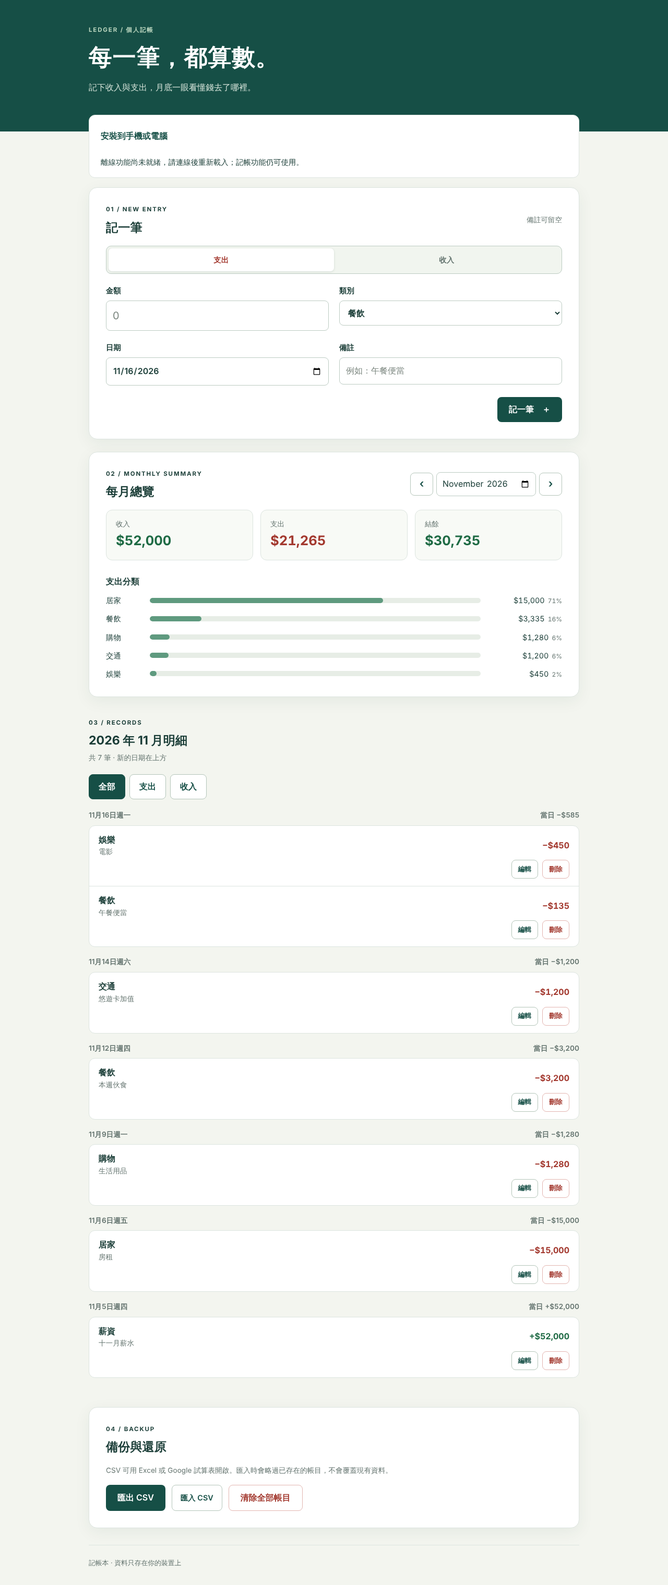
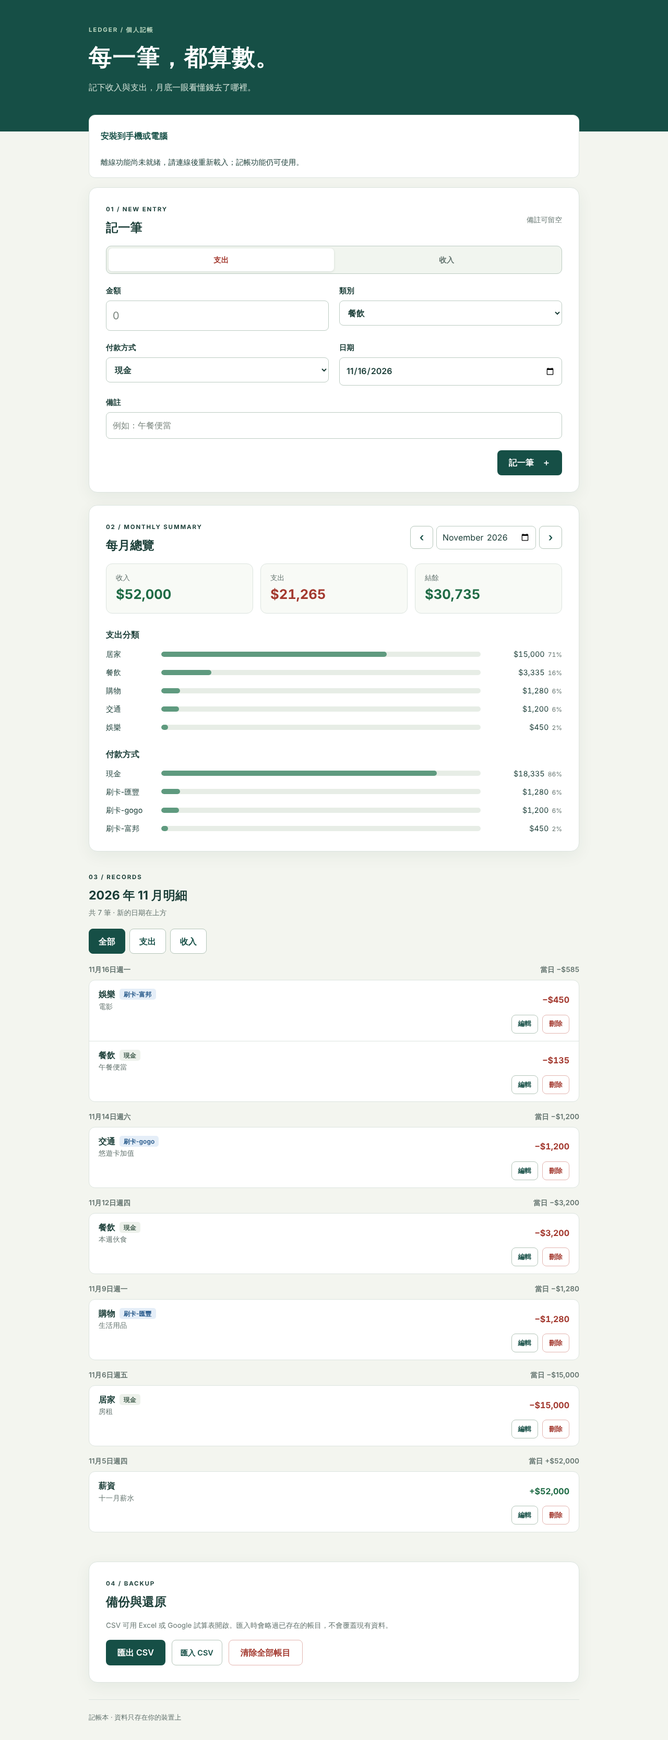
新增支出付款方式欄位 (#12)
- 支出可選現金、刷卡-匯豐、刷卡-gogo、刷卡-一銀、刷卡-富邦，預設現金
- 收入不顯示也不儲存付款方式
- 每月總覽新增付款方式統計，明細顯示付款方式標籤
- CSV 匯出匯入加入付款方式欄，舊格式 CSV 與舊帳目顯示「未指定」
- sw.js 快取版本改為 v2，測試改為不依賴目前版本號

Claude-Session: https://claude.ai/code/session_011d82iz1FptCJ1qotcmAoj3

diff --git a/style.css b/style.css
@@ -5,7 +5,7 @@
 .panel,.summary,.data-tools{padding:32px;background:#fff;border:1px solid var(--line);border-radius:16px;box-shadow:0 8px 30px #173b3610}.summary,.data-tools{margin-top:24px}
 .section-heading{display:flex;align-items:center;justify-content:space-between;gap:16px;margin-bottom:20px}h2{font-size:1.45rem;line-height:1.3;margin:0}h3{font-size:1rem;margin:0 0 12px}.note{color:var(--muted);font-size:.85rem}
 .type-toggle{display:grid;grid-template-columns:1fr 1fr;gap:0;border:1px solid #bccbc2;border-radius:10px;padding:4px;margin:0 0 20px;background:#f1f5ef}.type-toggle label{margin:0}.type-toggle input{position:absolute;opacity:0;width:1px;height:1px}.type-toggle span{display:flex;align-items:center;justify-content:center;min-height:44px;border-radius:7px;font-weight:600;color:var(--muted);cursor:pointer}.type-toggle input:checked+span{background:#fff;color:var(--expense);box-shadow:0 1px 4px #173b3622}.type-toggle input[value=income]:checked+span{color:var(--income)}.type-toggle input:focus-visible+span{outline:3px solid #d59d42;outline-offset:2px}
-.form-grid{display:grid;grid-template-columns:1fr 1fr;gap:20px}label{display:block;font-size:.9rem;font-weight:600}input,select{display:block;width:100%;margin-top:8px;border:1px solid #bccbc2;border-radius:8px;background:#fff;padding:12px;color:var(--ink);font-size:1rem;min-height:48px}input[name=amount]{font-size:1.25rem;font-weight:700}input::placeholder{color:#7d8881;font-weight:400}:focus-visible{outline:3px solid #d59d42;outline-offset:3px}
+.form-grid{display:grid;grid-template-columns:1fr 1fr;gap:20px}.form-grid .wide{grid-column:1/-1}label{display:block;font-size:.9rem;font-weight:600}input,select{display:block;width:100%;margin-top:8px;border:1px solid #bccbc2;border-radius:8px;background:#fff;padding:12px;color:var(--ink);font-size:1rem;min-height:48px}input[name=amount]{font-size:1.25rem;font-weight:700}input::placeholder{color:#7d8881;font-weight:400}:focus-visible{outline:3px solid #d59d42;outline-offset:3px}
 .form-footer{display:flex;align-items:center;justify-content:flex-end;gap:12px;margin-top:22px}
 button,.file-button{border:0;border-radius:8px;background:var(--green);color:#fff;min-height:48px;padding:11px 22px;font-weight:600}button:hover:not(:disabled){background:#246a5d}button span{margin-left:12px}
 .secondary,.file-button{background:transparent;border:1px solid #b4c5b9;color:var(--green);font-size:.9rem;padding:9px 16px}.secondary:hover:not(:disabled),.file-button:hover{background:#e0e9df}
@@ -13,10 +13,10 @@ button,.file-button{border:0;border-radius:8px;background:var(--green);color:#ff
 .message{font-size:.9rem;margin:16px 0 0;white-space:pre-wrap;overflow-wrap:anywhere}.message:empty{display:none}.message[data-kind=error]{color:#9e2925}.message[data-kind=success]{color:#226344}
 .month-nav{display:flex;align-items:center;gap:6px}.month-nav input{margin:0;width:auto;min-width:0;padding:8px 10px;min-height:44px}.icon-button{min-width:44px;min-height:44px;padding:0;font-size:1.3rem;line-height:1}
 .stats{display:grid;grid-template-columns:repeat(3,1fr);gap:14px}.stat{padding:16px 18px;border:1px solid var(--line);border-radius:12px;background:#f8faf6;min-width:0}.stat-label{display:block;font-size:.85rem;color:var(--muted)}.stat-value{display:block;font-size:clamp(1.05rem,3.6vw,1.6rem);font-variant-numeric:tabular-nums;overflow-wrap:anywhere}.income{color:var(--income)}.expense{color:var(--expense)}
-.breakdown{margin-top:28px}.breakdown .note{margin:0}.breakdown-list{list-style:none;margin:0;padding:0;display:grid;gap:12px}.breakdown-row{display:grid;grid-template-columns:5em 1fr 10em;align-items:center;gap:12px;font-size:.9rem}.bar{height:10px;border-radius:5px;background:#e7ede6;overflow:hidden}.bar span{display:block;height:100%;margin:0;background:var(--bar);border-radius:5px}.breakdown-amount{font-variant-numeric:tabular-nums;text-align:right;white-space:nowrap}.breakdown-amount small{color:var(--muted);margin-left:6px}
+.breakdown{margin-top:28px}.breakdown .note{margin:0}.breakdown-list{list-style:none;margin:0;padding:0;display:grid;gap:12px}.breakdown-row{display:grid;grid-template-columns:6.5em 1fr 10em;align-items:center;gap:12px;font-size:.9rem}.bar{height:10px;border-radius:5px;background:#e7ede6;overflow:hidden}.bar span{display:block;height:100%;margin:0;background:var(--bar);border-radius:5px}.breakdown-amount{font-variant-numeric:tabular-nums;text-align:right;white-space:nowrap}.breakdown-amount small{color:var(--muted);margin-left:6px}
 .records{padding:40px 0 12px}.records .section-heading .note{margin:8px 0 0}.type-filters{display:flex;gap:8px;flex-wrap:wrap}.filter-button{min-width:64px;padding:10px 18px;background:#fff;color:var(--green);border:1px solid #b4c5b9}.filter-button:hover:not(:disabled){background:#e0e9df}.filter-button[aria-pressed=true],.filter-button[aria-pressed=true]:hover{background:var(--green);color:#fff;border-color:var(--green)}
-.record-list{margin:20px 0;display:grid;gap:18px}.day-group h3{display:flex;justify-content:space-between;gap:12px;font-size:.85rem;color:var(--muted);font-weight:600;margin:0 0 8px}.day-group ul{list-style:none;margin:0;padding:0;background:#fff;border:1px solid var(--line);border-radius:12px}.record{display:grid;grid-template-columns:1fr auto;gap:4px 12px;align-items:center;padding:14px 18px;border-top:1px solid var(--line)}.record:first-child{border-top:0}.record-main{min-width:0}.record-category{font-weight:600}.record-note{display:block;color:var(--muted);font-size:.85rem;overflow-wrap:anywhere}.record-amount{font-weight:700;font-variant-numeric:tabular-nums;text-align:right;white-space:nowrap}.record-actions{grid-column:1/-1;display:flex;gap:8px;justify-content:flex-end}.record-actions button{min-height:36px;padding:4px 12px;font-size:.8rem}
+.record-list{margin:20px 0;display:grid;gap:18px}.day-group h3{display:flex;justify-content:space-between;gap:12px;font-size:.85rem;color:var(--muted);font-weight:600;margin:0 0 8px}.day-group ul{list-style:none;margin:0;padding:0;background:#fff;border:1px solid var(--line);border-radius:12px}.record{display:grid;grid-template-columns:1fr auto;gap:4px 12px;align-items:center;padding:14px 18px;border-top:1px solid var(--line)}.record:first-child{border-top:0}.record-main{min-width:0}.record-category{font-weight:600}.record-payment{display:inline-block;margin-left:8px;font-size:.75rem;font-weight:600;border-radius:5px;padding:1px 8px;background:#edf1eb;color:#456051;vertical-align:1px}.record-payment[data-card=true]{background:#e5eef8;color:#285a8b}.record-note{display:block;color:var(--muted);font-size:.85rem;overflow-wrap:anywhere}.record-amount{font-weight:700;font-variant-numeric:tabular-nums;text-align:right;white-space:nowrap}.record-actions{grid-column:1/-1;display:flex;gap:8px;justify-content:flex-end}.record-actions button{min-height:36px;padding:4px 12px;font-size:.8rem}
 .data-actions{display:flex;flex-wrap:wrap;gap:12px;margin-top:16px}.file-button{display:inline-flex;align-items:center;cursor:pointer}.file-button input{position:absolute;opacity:0;width:1px;height:1px}.file-button:focus-within{outline:3px solid #d59d42;outline-offset:3px}
 .site-footer{border-top:1px solid var(--line);margin-top:32px;padding:24px 0 32px;font-size:.8rem;color:var(--muted)}
 .pwa-tools{position:relative;margin:-32px 0 18px;padding:18px 22px;background:#fff;border:1px solid var(--line);border-radius:12px}.pwa-tools summary{cursor:pointer;min-height:44px;display:flex;align-items:center;color:var(--green);font-weight:600}.pwa-tools details p{font-size:.9rem;margin:8px 0;color:var(--muted)}.pwa-tools #install-button{margin-bottom:8px}.network-message{padding:12px;background:#fff3d9;color:#734b11}.update-panel{display:flex;align-items:center;justify-content:space-between;gap:16px;margin-top:12px;padding-top:12px;border-top:1px solid var(--line)}.update-panel p{margin:0}
-@media(max-width:600px){.shell{width:calc(100% - 32px)}.hero{padding:32px 0 60px}.panel,.summary,.data-tools{padding:22px 18px;border-radius:12px}.form-grid{grid-template-columns:1fr;gap:16px}.section-heading{align-items:flex-start;flex-wrap:wrap}.panel .section-heading{display:block}.panel .section-heading>.note{display:block;margin-top:8px}.form-footer{flex-direction:column-reverse;align-items:stretch}.form-footer button{width:100%}.stats{gap:8px}.stat{padding:12px}.month-nav{width:100%}.month-nav input{flex:1}.records{padding-top:32px}.record{padding:12px 14px}.pwa-tools{padding:14px 18px}.update-panel{align-items:stretch;flex-direction:column}.data-actions>*{flex:1 1 100%;justify-content:center}.breakdown-row{grid-template-columns:3.2em 1fr 8.6em;gap:8px}}
+@media(max-width:600px){.shell{width:calc(100% - 32px)}.hero{padding:32px 0 60px}.panel,.summary,.data-tools{padding:22px 18px;border-radius:12px}.form-grid{grid-template-columns:1fr;gap:16px}.section-heading{align-items:flex-start;flex-wrap:wrap}.panel .section-heading{display:block}.panel .section-heading>.note{display:block;margin-top:8px}.form-footer{flex-direction:column-reverse;align-items:stretch}.form-footer button{width:100%}.stats{gap:8px}.stat{padding:12px}.month-nav{width:100%}.month-nav input{flex:1}.records{padding-top:32px}.record{padding:12px 14px}.pwa-tools{padding:14px 18px}.update-panel{align-items:stretch;flex-direction:column}.data-actions>*{flex:1 1 100%;justify-content:center}.breakdown-row{grid-template-columns:5.2em 1fr 8.6em;gap:8px}}

diff --git a/app.js b/app.js
@@ -5,9 +5,12 @@
     expense: ['餐飲', '交通', '購物', '居家', '娛樂', '醫療', '教育', '其他'],
     income: ['薪資', '獎金', '投資', '兼職', '其他'],
   };
+  // 付款方式只用於支出；收入不記錄付款方式。
+  const PAYMENTS = ['現金', '刷卡-匯豐', '刷卡-gogo', '刷卡-一銀', '刷卡-富邦'];
+  const UNSPECIFIED_PAYMENT = '未指定';
   const TYPE_LABEL = { expense: '支出', income: '收入' };
   const MAX_AMOUNT = 999999999;
-  const CSV_HEADER = ['日期', '類型', '類別', '金額', '備註', '編號'];
+  const CSV_HEADER = ['日期', '類型', '類別', '金額', '付款方式', '備註', '編號'];
 
   const $ = (selector) => document.querySelector(selector);
   const form = $('#entry-form');
@@ -56,6 +59,7 @@
   }
 
   // 只接受欄位完整、類別合法的資料，避免損壞的儲存內容影響畫面。
+  // 新增付款方式前的舊帳目沒有 payment 欄位，保留為空字串並顯示「未指定」。
   function normalize(raw) {
     if (!raw || !CATEGORIES[raw.type]) return null;
     const amount = parseAmount(raw.amount);
@@ -66,6 +70,7 @@
       amount,
       category: raw.category,
       date: raw.date,
+      payment: raw.type === 'expense' && PAYMENTS.includes(raw.payment) ? raw.payment : '',
       note: String(raw.note ?? '').trim().slice(0, 100),
       createdAt: Number(raw.createdAt) || Date.now(),
     };
@@ -101,6 +106,9 @@
   function fillCategories(type, selected) {
     const select = form.elements.namedItem('category');
     select.replaceChildren(...CATEGORIES[type].map((name) => new Option(name, name, false, name === selected)));
+    const paymentField = $('#payment-field');
+    paymentField.hidden = type !== 'expense';
+    form.elements.namedItem('payment').disabled = type !== 'expense';
   }
 
   function resetForm() {
@@ -122,6 +130,8 @@
     form.elements.namedItem('amount').value = record.amount;
     form.elements.namedItem('date').value = record.date;
     form.elements.namedItem('note').value = record.note;
+    // 舊帳目未指定付款方式時停在「請選擇」，要求使用者補選。
+    if (record.type === 'expense') form.elements.namedItem('payment').value = record.payment;
     submitButton.firstChild.textContent = '儲存修改 ';
     cancelEdit.hidden = false;
     message(formMessage, `正在編輯 ${record.date} 的${TYPE_LABEL[record.type]}。`);
@@ -155,9 +165,14 @@
     balanceNode.textContent = money.format(balance);
     balanceNode.className = `stat-value ${balance < 0 ? 'expense' : 'income'}`;
 
+    renderBreakdown(monthRecords, expense, (r) => r.category, '#breakdown-list', '#breakdown-empty');
+    renderBreakdown(monthRecords, expense, (r) => r.payment || UNSPECIFIED_PAYMENT, '#payment-list', '#payment-empty');
+  }
+
+  function renderBreakdown(monthRecords, expense, keyOf, listSelector, emptySelector) {
     const totals = new Map();
     for (const r of monthRecords) {
-      if (r.type === 'expense') totals.set(r.category, (totals.get(r.category) || 0) + Math.round(r.amount * 100));
+      if (r.type === 'expense') totals.set(keyOf(r), (totals.get(keyOf(r)) || 0) + Math.round(r.amount * 100));
     }
     const rows = [...totals].sort((a, b) => b[1] - a[1]).map(([category, cents]) => {
       const share = expense ? cents / 100 / expense : 0;
@@ -171,8 +186,8 @@
       row.append(element('span', '', category), bar, amount);
       return row;
     });
-    $('#breakdown-list').replaceChildren(...rows);
-    $('#breakdown-empty').hidden = rows.length > 0;
+    $(listSelector).replaceChildren(...rows);
+    $(emptySelector).hidden = rows.length > 0;
   }
 
   function renderList(monthRecords) {
@@ -196,6 +211,11 @@
         li.dataset.id = r.id;
         const main = element('div', 'record-main');
         main.append(element('span', 'record-category', r.category));
+        if (r.type === 'expense') {
+          const payment = element('span', 'record-payment', r.payment || `付款${UNSPECIFIED_PAYMENT}`);
+          payment.dataset.card = String(r.payment.startsWith('刷卡'));
+          main.append(payment);
+        }
         if (r.note) main.append(element('span', 'record-note', r.note));
         const amount = element('span', `record-amount ${r.type}`, signed(r));
         const actions = element('div', 'record-actions');
@@ -254,10 +274,15 @@
       form.elements.namedItem('date').focus();
       return;
     }
+    if (data.get('type') === 'expense' && !PAYMENTS.includes(data.get('payment'))) {
+      message(formMessage, '請選擇付款方式。', 'error');
+      form.elements.namedItem('payment').focus();
+      return;
+    }
     const existing = records.find((r) => r.id === editingId);
     const record = normalize({
       id: existing?.id, createdAt: existing?.createdAt, type: data.get('type'), amount,
-      category: data.get('category'), date: data.get('date'), note: data.get('note'),
+      category: data.get('category'), payment: data.get('payment'), date: data.get('date'), note: data.get('note'),
     });
     if (!record) {
       message(formMessage, '資料格式不正確，請重新確認類別與欄位。', 'error');
@@ -345,7 +370,7 @@
       return;
     }
     const sorted = [...records].sort((a, b) => a.date.localeCompare(b.date) || a.createdAt - b.createdAt);
-    const lines = [CSV_HEADER, ...sorted.map((r) => [r.date, TYPE_LABEL[r.type], r.category, r.amount, r.note, r.id])]
+    const lines = [CSV_HEADER, ...sorted.map((r) => [r.date, TYPE_LABEL[r.type], r.category, r.amount, r.payment, r.note, r.id])]
       .map((row) => row.map(csvCell).join(','));
     const blob = new Blob([`${lines.join('\r\n')}\r\n`], { type: 'text/csv;charset=utf-8' });
     const link = document.createElement('a');
@@ -383,7 +408,7 @@
       const get = (name) => (index[name] >= 0 ? (row[index[name]] ?? '').trim() : '');
       const note = get('備註').replace(/^'(?=[=+\-@\t\r])/, '');
       const record = normalize({ id: get('編號'), type: typeByLabel[get('類型')], category: get('類別'),
-        amount: get('金額'), date: get('日期').replace(/\//g, '-'), note, createdAt: Date.now() + added });
+        amount: get('金額'), payment: get('付款方式'), date: get('日期').replace(/\//g, '-'), note, createdAt: Date.now() + added });
       if (!record) { invalid += 1; continue; }
       if (known.has(record.id)) { duplicated += 1; continue; }
       known.add(record.id);

diff --git a/index.html b/index.html
@@ -42,8 +42,13 @@
         <div class="form-grid">
           <label>金額<input name="amount" type="number" inputmode="decimal" min="0.01" max="999999999" step="0.01" placeholder="0" required></label>
           <label>類別<select name="category" required></select></label>
+          <label id="payment-field">付款方式<select name="payment" required>
+            <option value="" disabled>請選擇付款方式</option>
+            <option selected>現金</option>
+            <optgroup label="刷卡"><option>刷卡-匯豐</option><option>刷卡-gogo</option><option>刷卡-一銀</option><option>刷卡-富邦</option></optgroup>
+          </select></label>
           <label>日期<input name="date" type="date" required></label>
-          <label>備註<input name="note" maxlength="100" placeholder="例如：午餐便當"></label>
+          <label class="wide">備註<input name="note" maxlength="100" placeholder="例如：午餐便當"></label>
         </div>
         <div class="form-footer">
           <button id="cancel-edit" class="secondary" type="button" hidden>取消編輯</button>
@@ -71,6 +76,11 @@
         <h3>支出分類</h3>
         <p id="breakdown-empty" class="note">這個月還沒有支出。</p>
         <ul id="breakdown-list" class="breakdown-list" aria-label="本月支出分類"></ul>
+      </div>
+      <div class="breakdown">
+        <h3>付款方式</h3>
+        <p id="payment-empty" class="note">這個月還沒有支出。</p>
+        <ul id="payment-list" class="breakdown-list" aria-label="本月支出付款方式"></ul>
       </div>
     </section>
 

diff --git a/sw.js b/sw.js
@@ -3,7 +3,7 @@ const BASE = new URL('./', self.location.href);
 const CACHE_PREFIX = `ledger-shell-${BASE.pathname}-`;
 // 舊版報修網頁的快取，啟用新版時一併清除。
 const LEGACY_PREFIX = `repair-desk-shell-${BASE.pathname}-`;
-const CACHE_NAME = `${CACHE_PREFIX}v1`;
+const CACHE_NAME = `${CACHE_PREFIX}v2`;
 const SHELL_FILES = [
   './index.html', './style.css', './app.js', './pwa.js',
   './manifest.webmanifest', './icons/icon-192.png', './icons/icon-512.png',

diff --git a/tests/browser_check.py b/tests/browser_check.py
@@ -44,11 +44,13 @@ try:
         def stored():
             return page.evaluate("JSON.parse(localStorage.getItem('ledger-records-v1') || '[]')")
 
-        def add(amount, category=None, note='', date=None, kind='expense'):
+        def add(amount, category=None, note='', date=None, kind='expense', payment=None):
             page.locator(f'.type-toggle input[value={kind}]').check(force=True)
             page.locator('[name=amount]').fill(str(amount))
             if category:
                 page.locator('[name=category]').select_option(category)
+            if payment:
+                page.locator('[name=payment]').select_option(payment)
             if date:
                 page.locator('[name=date]').fill(date)
             page.locator('[name=note]').fill(note)
@@ -69,11 +71,19 @@ try:
         assert stored() == []
 
         # 收入切換類別清單；新增收支後統計正確（含小數不產生浮點誤差）。
+        # 付款方式：支出預設現金，選項含四張卡；收入不顯示也不儲存付款方式。
+        assert page.locator('[name=payment]').input_value() == '現金'
+        assert page.locator('[name=payment] option:not([disabled])').all_inner_texts() == [
+            '現金', '刷卡-匯豐', '刷卡-gogo', '刷卡-一銀', '刷卡-富邦']
         page.locator('.type-toggle input[value=income]').check(force=True)
         assert '薪資' in page.locator('[name=category]').inner_text()
+        assert not page.locator('#payment-field').is_visible()
         add(50000, '薪資', '十一月薪水', '2026-11-05', 'income')
         assert page.locator('[name=amount]').input_value() == ''
-        add(120.1, '餐飲', '午餐', '2026-11-16')
+        page.locator('.type-toggle input[value=expense]').check(force=True)
+        assert page.locator('#payment-field').is_visible()
+        add(120.1, '餐飲', '午餐', '2026-11-16', payment='刷卡-gogo')
+        assert page.locator('[name=payment]').input_value() == '現金'
         add(80.2, '交通', '捷運', '2026-11-16')
         add(300, '餐飲', '<img src=x onerror=alert(1)>')
         assert len(stored()) == 4
@@ -83,6 +93,13 @@ try:
         assert page.locator('.record img').count() == 0
         assert page.locator('.breakdown-row').first.inner_text().startswith('餐飲')
         assert page.locator('.day-group').count() == 2
+        assert next(r for r in stored() if r['note'] == '十一月薪水')['payment'] == ''
+        assert next(r for r in stored() if r['note'] == '午餐')['payment'] == '刷卡-gogo'
+        assert page.locator('.record', has_text='午餐').locator('.record-payment').inner_text() == '刷卡-gogo'
+        assert page.locator('.record', has_text='十一月薪水').locator('.record-payment').count() == 0
+        pay_rows = page.locator('#payment-list .breakdown-row').all_inner_texts()
+        assert pay_rows[0].startswith('現金') and '380' in pay_rows[0], pay_rows
+        assert pay_rows[1].startswith('刷卡-gogo') and '120.1' in pay_rows[1], pay_rows
         assert '16' in page.locator('.day-group h3').first.inner_text()
 
         # 篩選。
@@ -96,10 +113,12 @@ try:
         page.locator('.record', has_text='捷運').locator('[data-action=edit]').click()
         assert page.locator('[name=amount]').input_value() == '80.2'
         assert page.locator('#cancel-edit').is_visible()
+        assert page.locator('[name=payment]').input_value() == '現金'
         page.locator('[name=amount]').fill('100')
+        page.locator('[name=payment]').select_option('刷卡-富邦')
         page.locator('#submit-button').click()
         assert len(stored()) == 4
-        assert any(r['note'] == '捷運' and r['amount'] == 100 for r in stored())
+        assert any(r['note'] == '捷運' and r['amount'] == 100 and r['payment'] == '刷卡-富邦' for r in stored())
         assert not page.locator('#cancel-edit').is_visible()
 
         # 重新載入後資料仍在。
@@ -130,7 +149,8 @@ try:
         raw = csv_path.read_bytes()
         assert raw.startswith(''.encode())
         text = raw.decode('utf-8-sig')
-        assert text.splitlines()[0] == '日期,類型,類別,金額,備註,編號'
+        assert text.splitlines()[0] == '日期,類型,類別,金額,付款方式,備註,編號'
+        assert '刷卡-富邦,捷運' in text
         assert "'=1+1" in text
         assert len(text.strip().splitlines()) == 5
 
@@ -143,23 +163,40 @@ try:
         page.locator('#import-input').set_input_files(str(csv_path))
         assert '新增 4 筆' in page.locator('#data-message').inner_text()
         assert any(r['note'] == '=1+1' for r in stored())
+        assert any(r['note'] == '捷運' and r['payment'] == '刷卡-富邦' for r in stored())
         bad = Path(tempfile.mkdtemp()) / 'bad.csv'
+        # 舊格式 CSV（沒有付款方式欄）仍可匯入，付款方式為未指定。
         bad.write_text('日期,類型,類別,金額\n2026-11-01,支出,不存在,10\n2026/11/02,支出,餐飲,"1,200"\n', encoding='utf-8')
         page.locator('#import-input').set_input_files(str(bad))
         assert '新增 1 筆' in page.locator('#data-message').inner_text()
         assert '格式錯誤 1 筆' in page.locator('#data-message').inner_text()
-        assert any(r['amount'] == 1200 and r['date'] == '2026-11-02' for r in stored())
+        assert any(r['amount'] == 1200 and r['date'] == '2026-11-02' and r['payment'] == '' for r in stored())
+
+        # 舊版帳目沒有 payment 欄位：顯示「付款未指定」，編輯時須補選才能儲存。
+        page.evaluate("""localStorage.setItem('ledger-records-v1', JSON.stringify([
+          {id:'old1',type:'expense',amount:99,category:'餐飲',date:'2026-11-03',note:'舊帳目',createdAt:1}]))""")
+        page.reload()
+        assert page.locator('.record-payment').inner_text() == '付款未指定'
+        assert '未指定' in page.locator('#payment-list').inner_text()
+        page.locator('[data-action=edit]').click()
+        assert page.locator('[name=payment]').input_value() == ''
+        page.locator('#submit-button').click()
+        assert '請選擇付款方式' in page.locator('#form-message').inner_text()
+        assert 'payment' not in page.evaluate("JSON.parse(localStorage.getItem('ledger-records-v1'))[0]")
+        page.locator('[name=payment]').select_option('刷卡-匯豐')
+        page.locator('#submit-button').click()
+        assert stored()[0]['payment'] == '刷卡-匯豐'
 
         # 損壞的儲存內容不會讓頁面壞掉。
         page.evaluate("localStorage.setItem('ledger-records-v1', '{broken')")
         page.reload()
         assert '還沒有帳目' in page.locator('#list-message').inner_text()
         page.evaluate("localStorage.setItem('ledger-records-v1', JSON.stringify([%s]))" % ','.join(
-            "{id:'s%d',type:'%s',amount:%s,category:'%s',date:'2026-11-%02d',note:'%s',createdAt:%d}" % row for row in [
-                (1, 'income', 52000, '薪資', 5, '十一月薪水', 1), (2, 'expense', 15000, '居家', 6, '房租', 2),
-                (3, 'expense', 1280, '購物', 9, '生活用品', 3), (4, 'expense', 3200, '餐飲', 12, '本週伙食', 4),
-                (5, 'expense', 1200, '交通', 14, '悠遊卡加值', 5), (6, 'expense', 135, '餐飲', 16, '午餐便當', 6),
-                (7, 'expense', 450, '娛樂', 16, '電影', 7)]))
+            "{id:'s%d',type:'%s',amount:%s,category:'%s',date:'2026-11-%02d',note:'%s',createdAt:%d,payment:'%s'}" % row for row in [
+                (1, 'income', 52000, '薪資', 5, '十一月薪水', 1, ''), (2, 'expense', 15000, '居家', 6, '房租', 2, '現金'),
+                (3, 'expense', 1280, '購物', 9, '生活用品', 3, '刷卡-匯豐'), (4, 'expense', 3200, '餐飲', 12, '本週伙食', 4, '現金'),
+                (5, 'expense', 1200, '交通', 14, '悠遊卡加值', 5, '刷卡-gogo'), (6, 'expense', 135, '餐飲', 16, '午餐便當', 6, '現金'),
+                (7, 'expense', 450, '娛樂', 16, '電影', 7, '刷卡-富邦')]))
         page.reload()
         assert page.evaluate('document.documentElement.scrollWidth <= innerWidth')
         assert not errors, errors

diff --git a/tests/pwa_check.py b/tests/pwa_check.py
@@ -1,6 +1,7 @@
 """PWA 測試：自行啟動 GitHub Pages 子目錄伺服器，驗證安裝條件、離線記帳與更新確認。"""
 import functools
 import os
+import re
 import shutil
 import tempfile
 import threading
@@ -9,7 +10,7 @@ from pathlib import Path
 from playwright.sync_api import sync_playwright
 
 ROOT = Path(__file__).resolve().parents[1]
-state = {'version': 'v1'}
+state = {'version': None}
 
 
 class Handler(SimpleHTTPRequestHandler):
@@ -19,7 +20,11 @@ class Handler(SimpleHTTPRequestHandler):
             return
         self.path = '/' + self.path[len('/AnitaHuang/'):]
         if self.path == '/sw.js':
-            data = (ROOT / 'sw.js').read_text().replace('${CACHE_PREFIX}v1', '${CACHE_PREFIX}' + state['version']).encode()
+            data = (ROOT / 'sw.js').read_text()
+            if state['version']:
+                # 模擬下一版：不論目前版本號為何，都換成測試用的新版本。
+                data = re.sub(r'\$\{CACHE_PREFIX\}v\d+', '${CACHE_PREFIX}' + state['version'], data)
+            data = data.encode()
             self.send_response(200)
             self.send_header('Content-Type', 'application/javascript')
             self.send_header('Cache-Control', 'no-store')
@@ -77,7 +82,7 @@ try:
 
         # 有未記下的內容時更新需確認；更新後已儲存的帳目仍在。
         page.locator('[name=note]').fill('未記下')
-        state['version'] = 'v2'
+        state['version'] = 'vtest'
         page.evaluate('async () => (await navigator.serviceWorker.ready).update()')
         page.locator('#update-panel').wait_for(state='visible', timeout=15000)
         page.once('dialog', lambda dialog: dialog.dismiss())
@@ -86,7 +91,7 @@ try:
         page.once('dialog', lambda dialog: dialog.accept())
         page.locator('#update-button').click()
         page.wait_for_function("document.querySelector('[name=note]').value === ''")
-        page.wait_for_function("async () => (await caches.keys()).filter(n => n.startsWith('ledger-shell-')).every(n => n.endsWith('v2'))")
+        page.wait_for_function("async () => (await caches.keys()).filter(n => n.startsWith('ledger-shell-')).every(n => n.endsWith('vtest'))")
         assert page.locator('.record', has_text='離線記帳').count() == 1
         context.close()
         print('PASS: installability, GitHub Pages subpath, icons, scoped cache, legacy cache cleanup, no external requests, '

diff --git a/README.md b/README.md
@@ -6,10 +6,10 @@
 
 ## 功能
 
-- **記一筆**：選擇支出／收入、金額（最多兩位小數）、類別、日期與備註（可留空）。
-- **每月總覽**：切換月份，查看當月收入、支出、結餘，以及各支出類別的金額與比例。
+- **記一筆**：選擇支出／收入、金額（最多兩位小數）、類別、日期與備註（可留空）。支出另需選擇**付款方式**：現金、刷卡-匯豐、刷卡-gogo、刷卡-一銀、刷卡-富邦（預設現金）；收入不記錄付款方式。
+- **每月總覽**：切換月份，查看當月收入、支出、結餘，以及各支出類別、各付款方式的金額與比例（方便對照每張信用卡的當月刷卡金額）。
 - **本月明細**：依日期分組（新的在上方），顯示每日小計；可依「全部／支出／收入」篩選，每筆可編輯或刪除（刪除前會確認）。
-- **備份與還原**：匯出 CSV（含 BOM，Excel 可直接開啟中文）；匯入 CSV 時依「編號」欄略過已存在的帳目，不會覆蓋現有資料。清除全部帳目前會再次確認。
+- **備份與還原**：匯出 CSV（含 BOM，Excel 可直接開啟中文，欄位為日期、類型、類別、金額、付款方式、備註、編號）；匯入 CSV 時依「編號」欄略過已存在的帳目，不會覆蓋現有資料。清除全部帳目前會再次確認。
 
 類別：支出為餐飲、交通、購物、居家、娛樂、醫療、教育、其他；收入為薪資、獎金、投資、兼職、其他。
 
@@ -20,6 +20,7 @@
 - 不同裝置、不同瀏覽器之間資料不會同步。
 - 清除瀏覽器網站資料、無痕模式關閉後，帳目會消失；請定期「匯出 CSV」備份，換裝置時再匯入。
 - 瀏覽器無法儲存時，頁面會顯示黃色提示。
+- 新增付款方式之前記的支出，以及沒有「付款方式」欄的舊 CSV，付款方式顯示為「未指定」；編輯這些帳目時需補選付款方式才能儲存。
 
 ## 本機預覽與部署
 
@@ -33,7 +34,7 @@ GitHub Pages 請在 Settings → Pages 選擇 Deploy from a branch、`main`、`/
 - iPhone／iPad：用 Safari 開啟，選「分享 → 加入主畫面」。
 - 首次需連線開啟並完成 Service Worker 快取，之後可離線開啟並記帳。
 - 有新版本時顯示「更新版本」，點選後重新載入；已儲存的帳目不受影響，只有表單中尚未記下的內容會清除（會先確認）。
-- 修改快取的靜態檔案時，須一併遞增 `sw.js` 的 `CACHE_NAME` 版本（目前 `v1`）。新版啟用時也會清除舊版報修網頁留下的快取。
+- 修改快取的靜態檔案時，須一併遞增 `sw.js` 的 `CACHE_NAME` 版本（目前 `v2`）。新版啟用時也會清除舊版報修網頁留下的快取。
 
 ## 驗證
 
